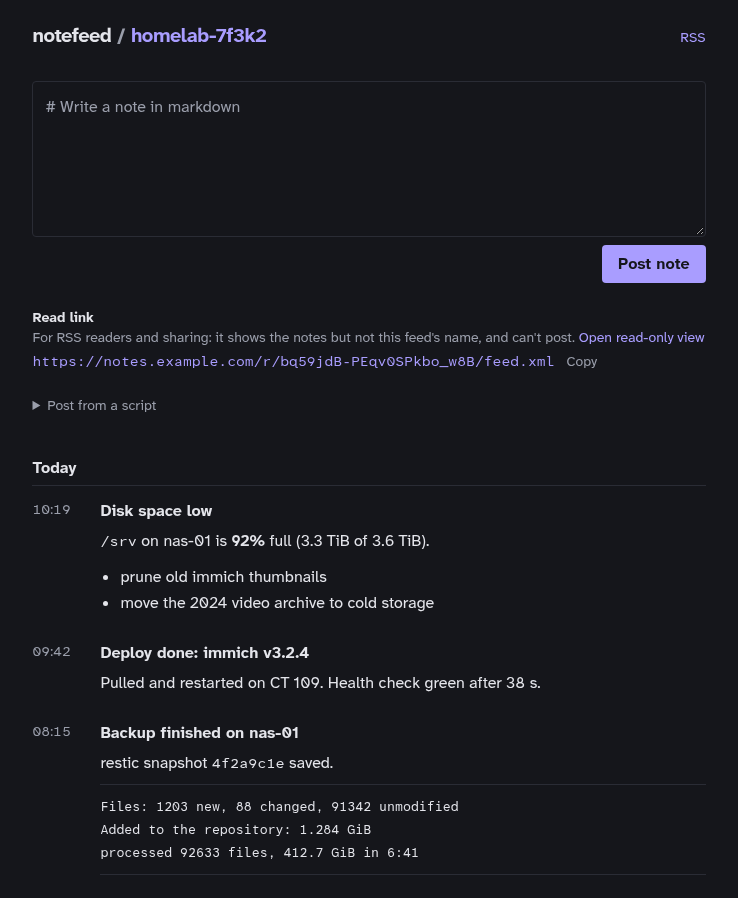
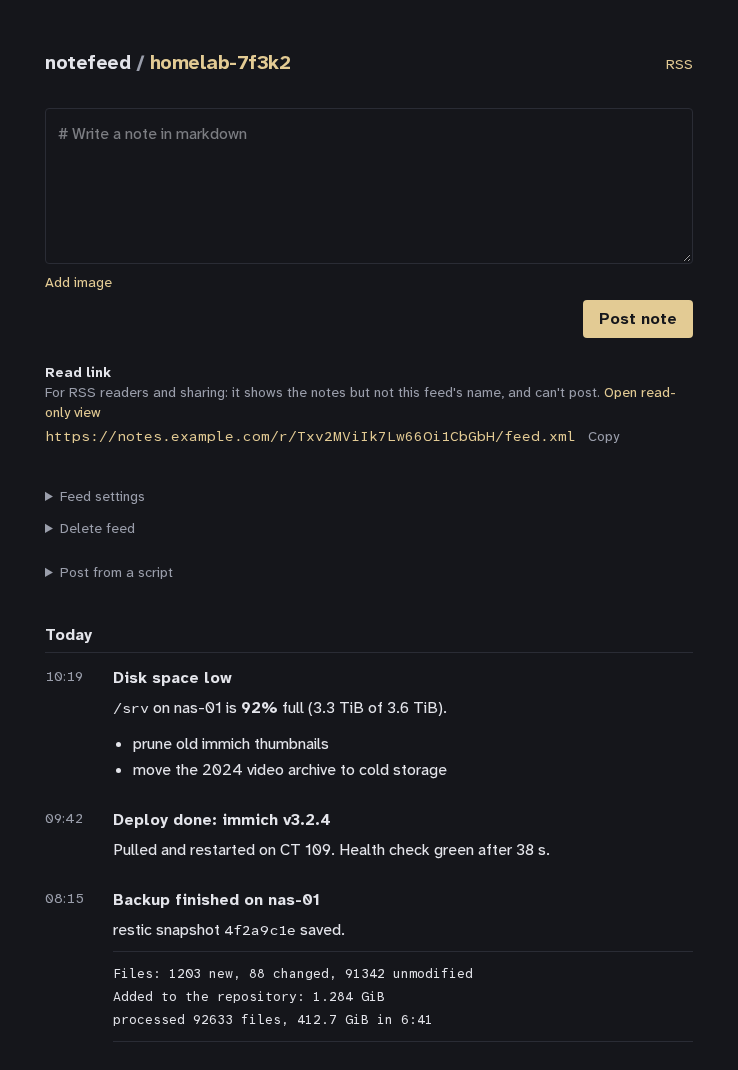
NOTEFEED #43: beige accent in the UI and docs, new screenshots
Claude-Session: https://claude.ai/code/session_0196axenT4RUamqvy1VcDgjH

diff --git a/docs/stylesheets/extra.css b/docs/stylesheets/extra.css
@@ -1,17 +1,17 @@
-/* notefeed's own palette (carbon violet), so the docs and the app look related. */
+/* notefeed's own palette (carbon-copy beige, dark enough to read as text), so the docs and the app look related. */
 [data-md-color-scheme="default"] {
-  --md-primary-fg-color: #4b3fa8;
-  --md-primary-fg-color--light: #6a60bd;
-  --md-primary-fg-color--dark: #3a3086;
-  --md-accent-fg-color: #4b3fa8;
+  --md-primary-fg-color: #7a5a1a;
+  --md-primary-fg-color--light: #957431;
+  --md-primary-fg-color--dark: #5c4210;
+  --md-accent-fg-color: #7a5a1a;
 }
 
 [data-md-color-scheme="slate"] {
-  --md-primary-fg-color: #a99dff;
-  --md-primary-fg-color--light: #c3baff;
-  --md-primary-fg-color--dark: #8b7ef0;
+  --md-primary-fg-color: #e3cb94;
+  --md-primary-fg-color--light: #ecdcb2;
+  --md-primary-fg-color--dark: #d9c08a;
   --md-primary-bg-color: #15161b;
-  --md-accent-fg-color: #a99dff;
+  --md-accent-fg-color: #e3cb94;
 }
 
 /* Web UI screenshots: framed like an app window instead of a flat grey box. */

diff --git a/app/globals.css b/app/globals.css
@@ -4,7 +4,7 @@
 :root {
   --paper: #f2f3f0;
   --ink: #1e2130;
-  --carbon: #4b3fa8;
+  --carbon: #7a5a1a;
   --rule: #d6d9df;
   --muted: #686d7a;
   --error: #b3261e;
@@ -16,7 +16,7 @@
   :root {
     --paper: #15161b;
     --ink: #e4e5eb;
-    --carbon: #a99dff;
+    --carbon: #e3cb94;
     --rule: #2a2c35;
     --muted: #9a9eab;
     --error: #ff8a80;
